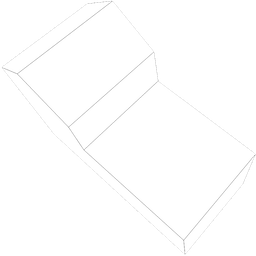
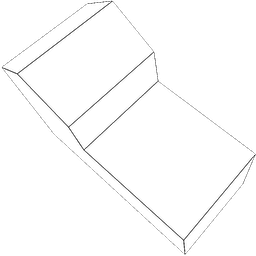
Fixed linter issues, made lines on piece sprites fatter.

diff --git a/pilgrims-client/src/components/Map.vue b/pilgrims-client/src/components/Map.vue
@@ -64,7 +64,7 @@ export default class Map extends Vue {
       height: this.height,
       width: this.width,
     });
-    
+
     this.viewport = new Viewport({
       screenWidth: this.width,
       screenHeight: this.width,
@@ -81,14 +81,14 @@ export default class Map extends Vue {
 
     const center = Hex(0, 0);
     const lineGraphics = new Graphics();
-    const tileContainer = new PIXI.Container;
-    const pieceContainer = new PIXI.Container;
+    const tileContainer = new PIXI.Container();
+    const pieceContainer = new PIXI.Container();
     Grid.hexagon({ radius: 12 }).forEach((hex) => {
       const point = hex.toPoint();
       const corners = hex.corners().map((corner) => corner.add(point));
       const [firstCorner, ...otherCorners] = corners;
-      
-      //Tiles
+
+      // Tiles
       const ss = this.getSprites();
       let i = Math.floor(Math.random() * (ss.length - 1));
       if (hex.distance(center) >= 18) { i = ss.length - 1; }
@@ -96,26 +96,25 @@ export default class Map extends Vue {
       s.position.x = firstCorner.x - this.tileWidth - lineWidth / 2;
       s.position.y = firstCorner.y - this.tileHeight / 2;
       tileContainer.addChild(s);
-      //
 
-      //Game pieces
+      // Game pieces
       if (Math.random() <= 0.2) {
-        const piece = Math.random() >= 0.5 ? Sprite.fromImage(`./img/pieces/house.png`) : Sprite.fromImage(`./img/pieces/city.png`);
+        const piece = Math.random() >= 0.5
+          ? Sprite.fromImage(`./img/pieces/house-extrafat.png`)
+          : Sprite.fromImage(`./img/pieces/city-extrafat.png`);
         piece.tint = Math.random() * 0xFFFFFF;
-        piece.width = 128;
-        piece.height = 128;
-        piece.position.x = firstCorner.x - (piece.width/2);
-        piece.position.y = firstCorner.y - (piece.height/2);
+        piece.width = 80;
+        piece.height = 80;
+        piece.position.x = firstCorner.x - (piece.width / 2);
+        piece.position.y = firstCorner.y - (piece.height / 2);
         pieceContainer.addChild(piece);
       }
-      //
 
-      //Hex lines
+      // Hex lines
       lineGraphics.lineStyle(lineWidth, 0xffffff);
       lineGraphics.moveTo(firstCorner.x, firstCorner.y);
       otherCorners.forEach(({ x, y }) => lineGraphics.lineTo(x, y));
       lineGraphics.lineTo(firstCorner.x, firstCorner.y);
-      //
     });
 
     const tileGraphics = new Graphics();
